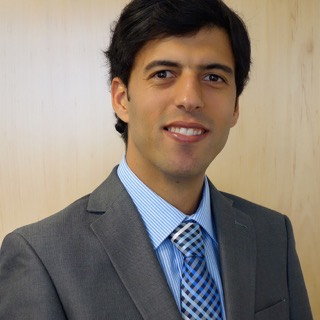
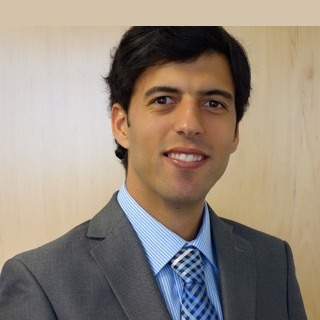
fix: keep panelist headshots from cropping at the top.

diff --git a/accepted-papers.html b/accepted-papers.html
@@ -30,7 +30,7 @@
   <link rel="preconnect" href="https://fonts.googleapis.com" />
   <link rel="preconnect" href="https://fonts.gstatic.com" crossorigin />
   <link href="https://fonts.googleapis.com/css2?family=Fraunces:opsz,wght@9..144,500;9..144,650&family=Manrope:wght@400;500;600;700&display=swap" rel="stylesheet" />
-  <link rel="stylesheet" href="style.css?1789319287" />
+  <link rel="stylesheet" href="style.css?1789431276" />
   <script type="application/ld+json">
 {
   "@context": "https://schema.org",

diff --git a/call-for-papers.html b/call-for-papers.html
@@ -30,7 +30,7 @@
   <link rel="preconnect" href="https://fonts.googleapis.com" />
   <link rel="preconnect" href="https://fonts.gstatic.com" crossorigin />
   <link href="https://fonts.googleapis.com/css2?family=Fraunces:opsz,wght@9..144,500;9..144,650&family=Manrope:wght@400;500;600;700&display=swap" rel="stylesheet" />
-  <link rel="stylesheet" href="style.css?1789319287" />
+  <link rel="stylesheet" href="style.css?1789431276" />
   <script type="application/ld+json">
 {
   "@context": "https://schema.org",

diff --git a/index.html b/index.html
@@ -30,7 +30,7 @@
   <link rel="preconnect" href="https://fonts.googleapis.com" />
   <link rel="preconnect" href="https://fonts.gstatic.com" crossorigin />
   <link href="https://fonts.googleapis.com/css2?family=Fraunces:opsz,wght@9..144,500;9..144,650&family=Manrope:wght@400;500;600;700&display=swap" rel="stylesheet" />
-  <link rel="stylesheet" href="style.css?1789319287" />
+  <link rel="stylesheet" href="style.css?1789431276" />
   <script type="application/ld+json">
 {
   "@context": "https://schema.org",

diff --git a/organizers.html b/organizers.html
@@ -30,7 +30,7 @@
   <link rel="preconnect" href="https://fonts.googleapis.com" />
   <link rel="preconnect" href="https://fonts.gstatic.com" crossorigin />
   <link href="https://fonts.googleapis.com/css2?family=Fraunces:opsz,wght@9..144,500;9..144,650&family=Manrope:wght@400;500;600;700&display=swap" rel="stylesheet" />
-  <link rel="stylesheet" href="style.css?1789319287" />
+  <link rel="stylesheet" href="style.css?1789431276" />
   <script type="application/ld+json">
 {
   "@context": "https://schema.org",

diff --git a/panel.html b/panel.html
@@ -30,7 +30,7 @@
   <link rel="preconnect" href="https://fonts.googleapis.com" />
   <link rel="preconnect" href="https://fonts.gstatic.com" crossorigin />
   <link href="https://fonts.googleapis.com/css2?family=Fraunces:opsz,wght@9..144,500;9..144,650&family=Manrope:wght@400;500;600;700&display=swap" rel="stylesheet" />
-  <link rel="stylesheet" href="style.css?1789319287" />
+  <link rel="stylesheet" href="style.css?1789431276" />
   <script type="application/ld+json">
 {
   "@context": "https://schema.org",

diff --git a/past.html b/past.html
@@ -30,7 +30,7 @@
   <link rel="preconnect" href="https://fonts.googleapis.com" />
   <link rel="preconnect" href="https://fonts.gstatic.com" crossorigin />
   <link href="https://fonts.googleapis.com/css2?family=Fraunces:opsz,wght@9..144,500;9..144,650&family=Manrope:wght@400;500;600;700&display=swap" rel="stylesheet" />
-  <link rel="stylesheet" href="style.css?1789319287" />
+  <link rel="stylesheet" href="style.css?1789431276" />
   <script type="application/ld+json">
 {
   "@context": "https://schema.org",

diff --git a/schedule.html b/schedule.html
@@ -30,7 +30,7 @@
   <link rel="preconnect" href="https://fonts.googleapis.com" />
   <link rel="preconnect" href="https://fonts.gstatic.com" crossorigin />
   <link href="https://fonts.googleapis.com/css2?family=Fraunces:opsz,wght@9..144,500;9..144,650&family=Manrope:wght@400;500;600;700&display=swap" rel="stylesheet" />
-  <link rel="stylesheet" href="style.css?1789319287" />
+  <link rel="stylesheet" href="style.css?1789431276" />
   <script type="application/ld+json">
 {
   "@context": "https://schema.org",

diff --git a/speakers.html b/speakers.html
@@ -30,7 +30,7 @@
   <link rel="preconnect" href="https://fonts.googleapis.com" />
   <link rel="preconnect" href="https://fonts.gstatic.com" crossorigin />
   <link href="https://fonts.googleapis.com/css2?family=Fraunces:opsz,wght@9..144,500;9..144,650&family=Manrope:wght@400;500;600;700&display=swap" rel="stylesheet" />
-  <link rel="stylesheet" href="style.css?1789319287" />
+  <link rel="stylesheet" href="style.css?1789431276" />
   <script type="application/ld+json">
 {
   "@context": "https://schema.org",

diff --git a/style.css b/style.css
@@ -700,6 +700,7 @@ body.past-sub .page-hero__media {
   width: 140px;
   height: 140px;
   object-fit: cover;
+  object-position: center top;
   border-radius: 6px;
   background: var(--mist);
 }
@@ -867,6 +868,7 @@ body.past-sub .page-hero__media {
   height: 88px;
   border-radius: 50%;
   object-fit: cover;
+  object-position: center top;
   background: var(--mist);
 }
 .steering-photo--placeholder {
